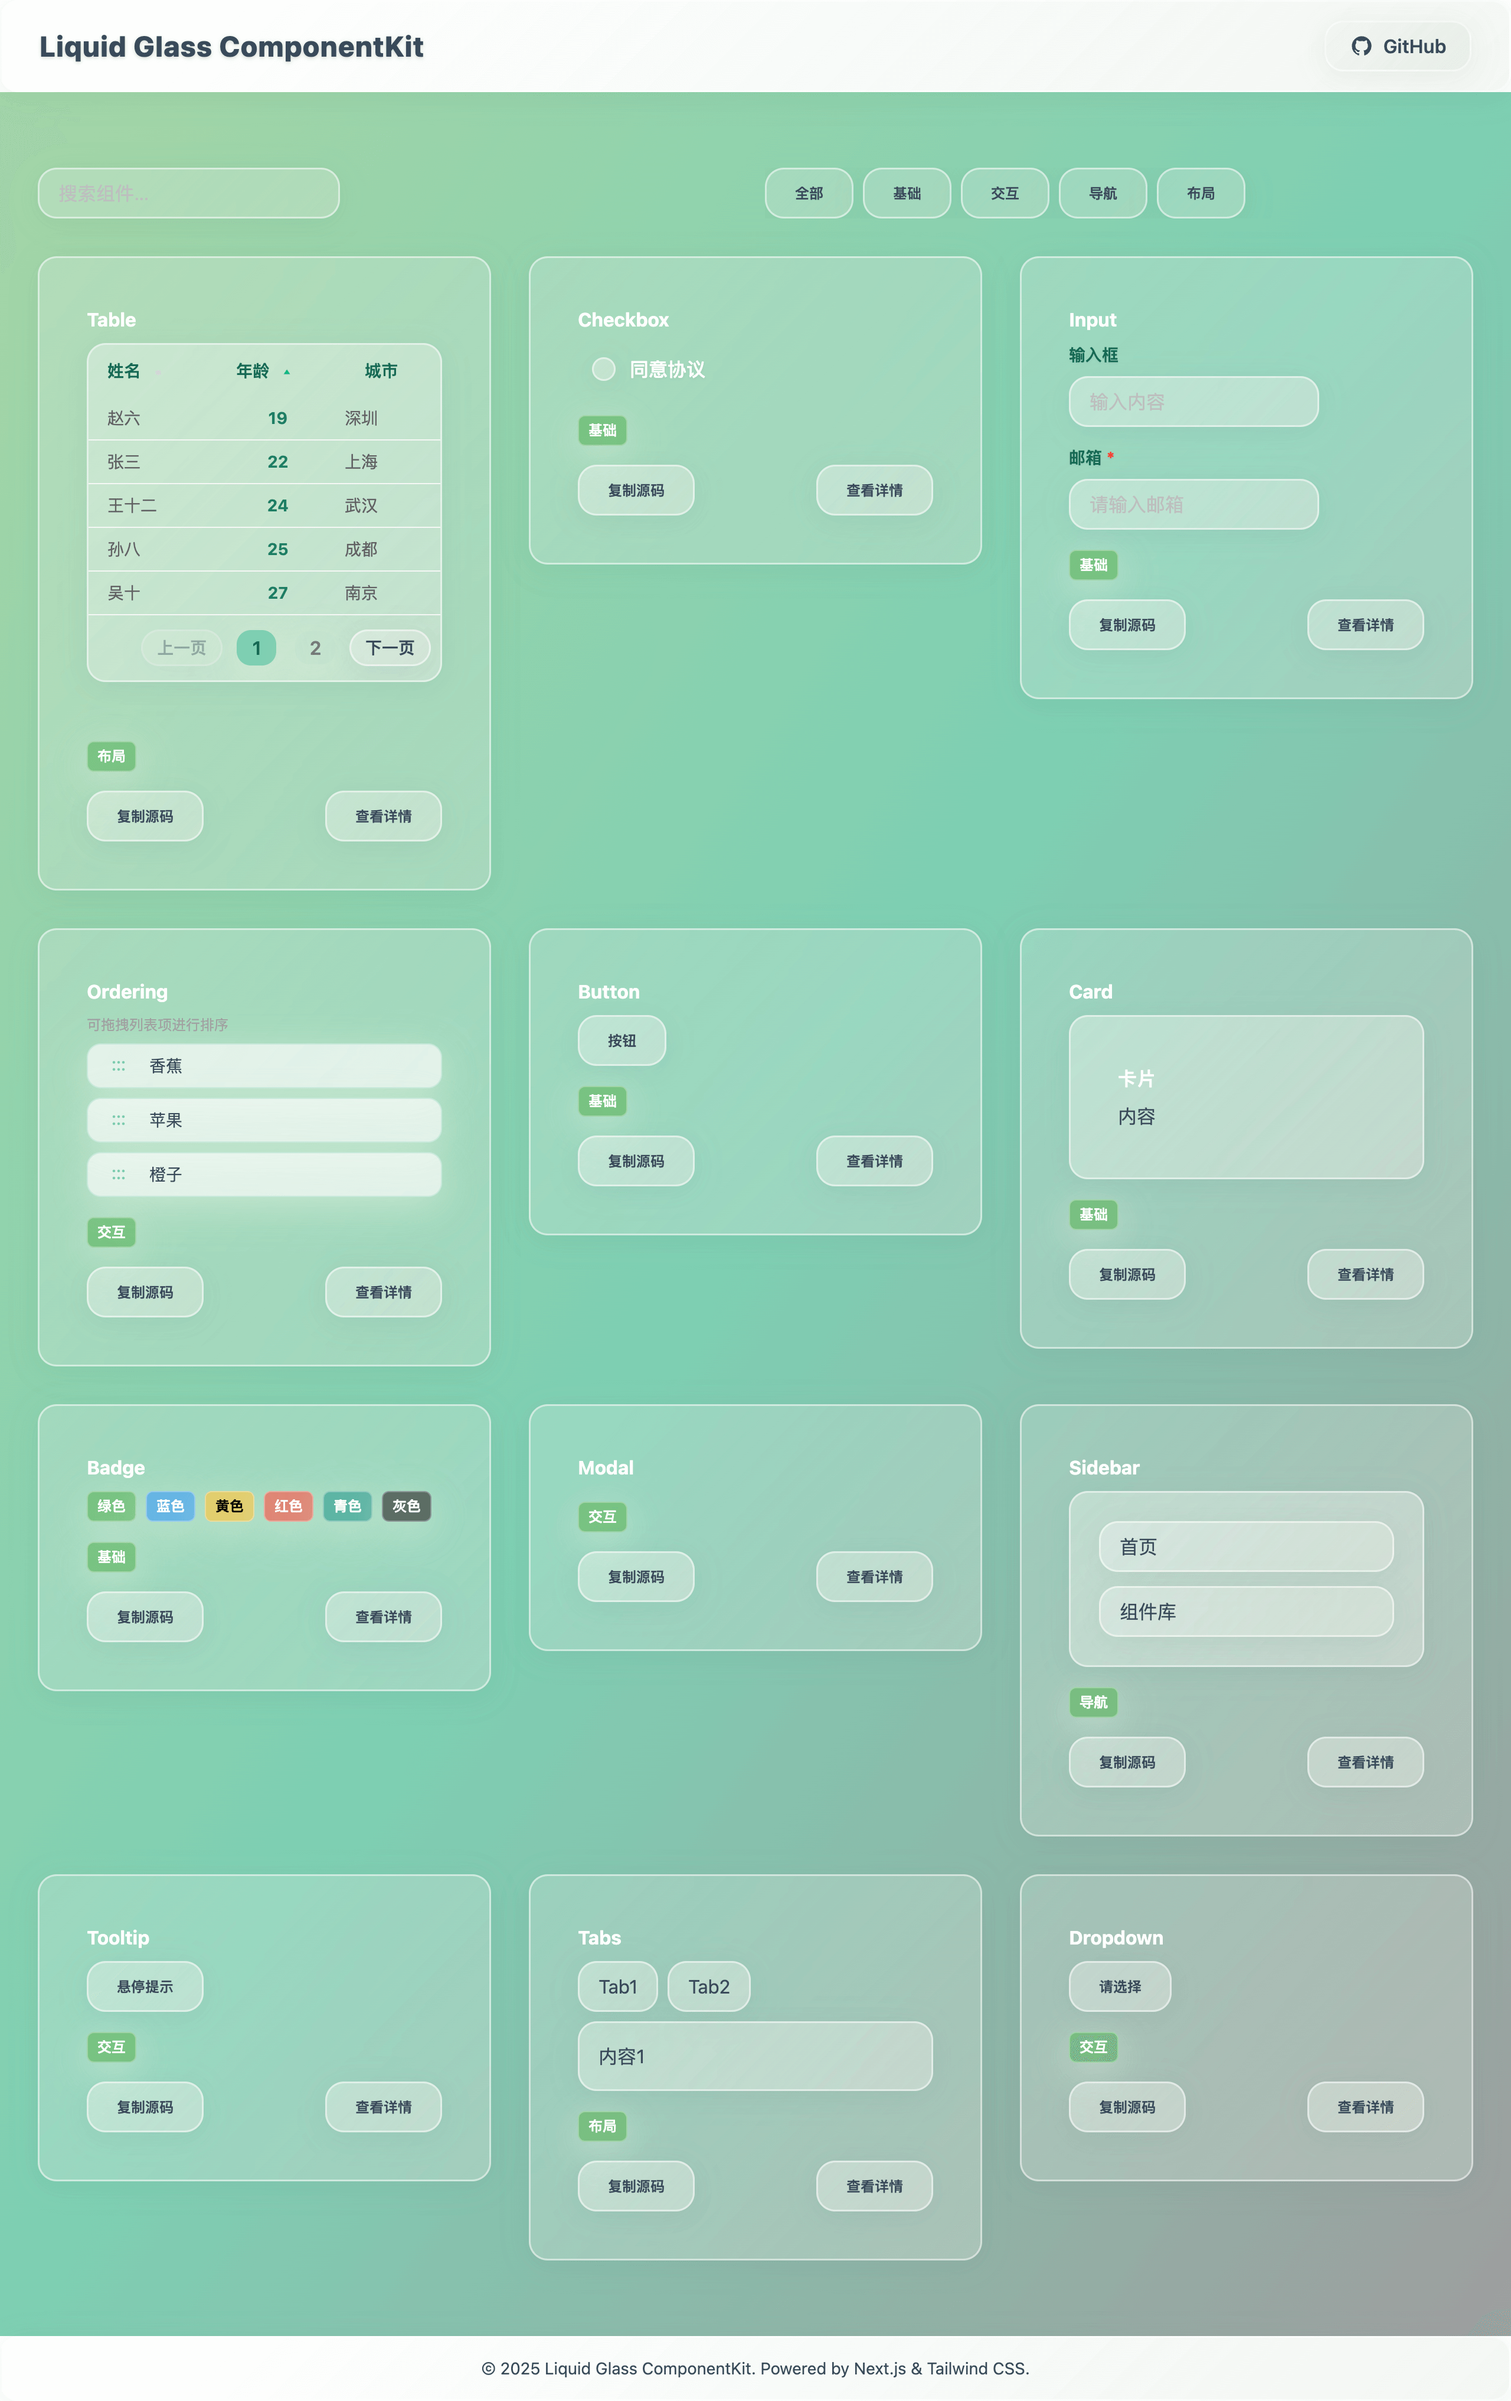
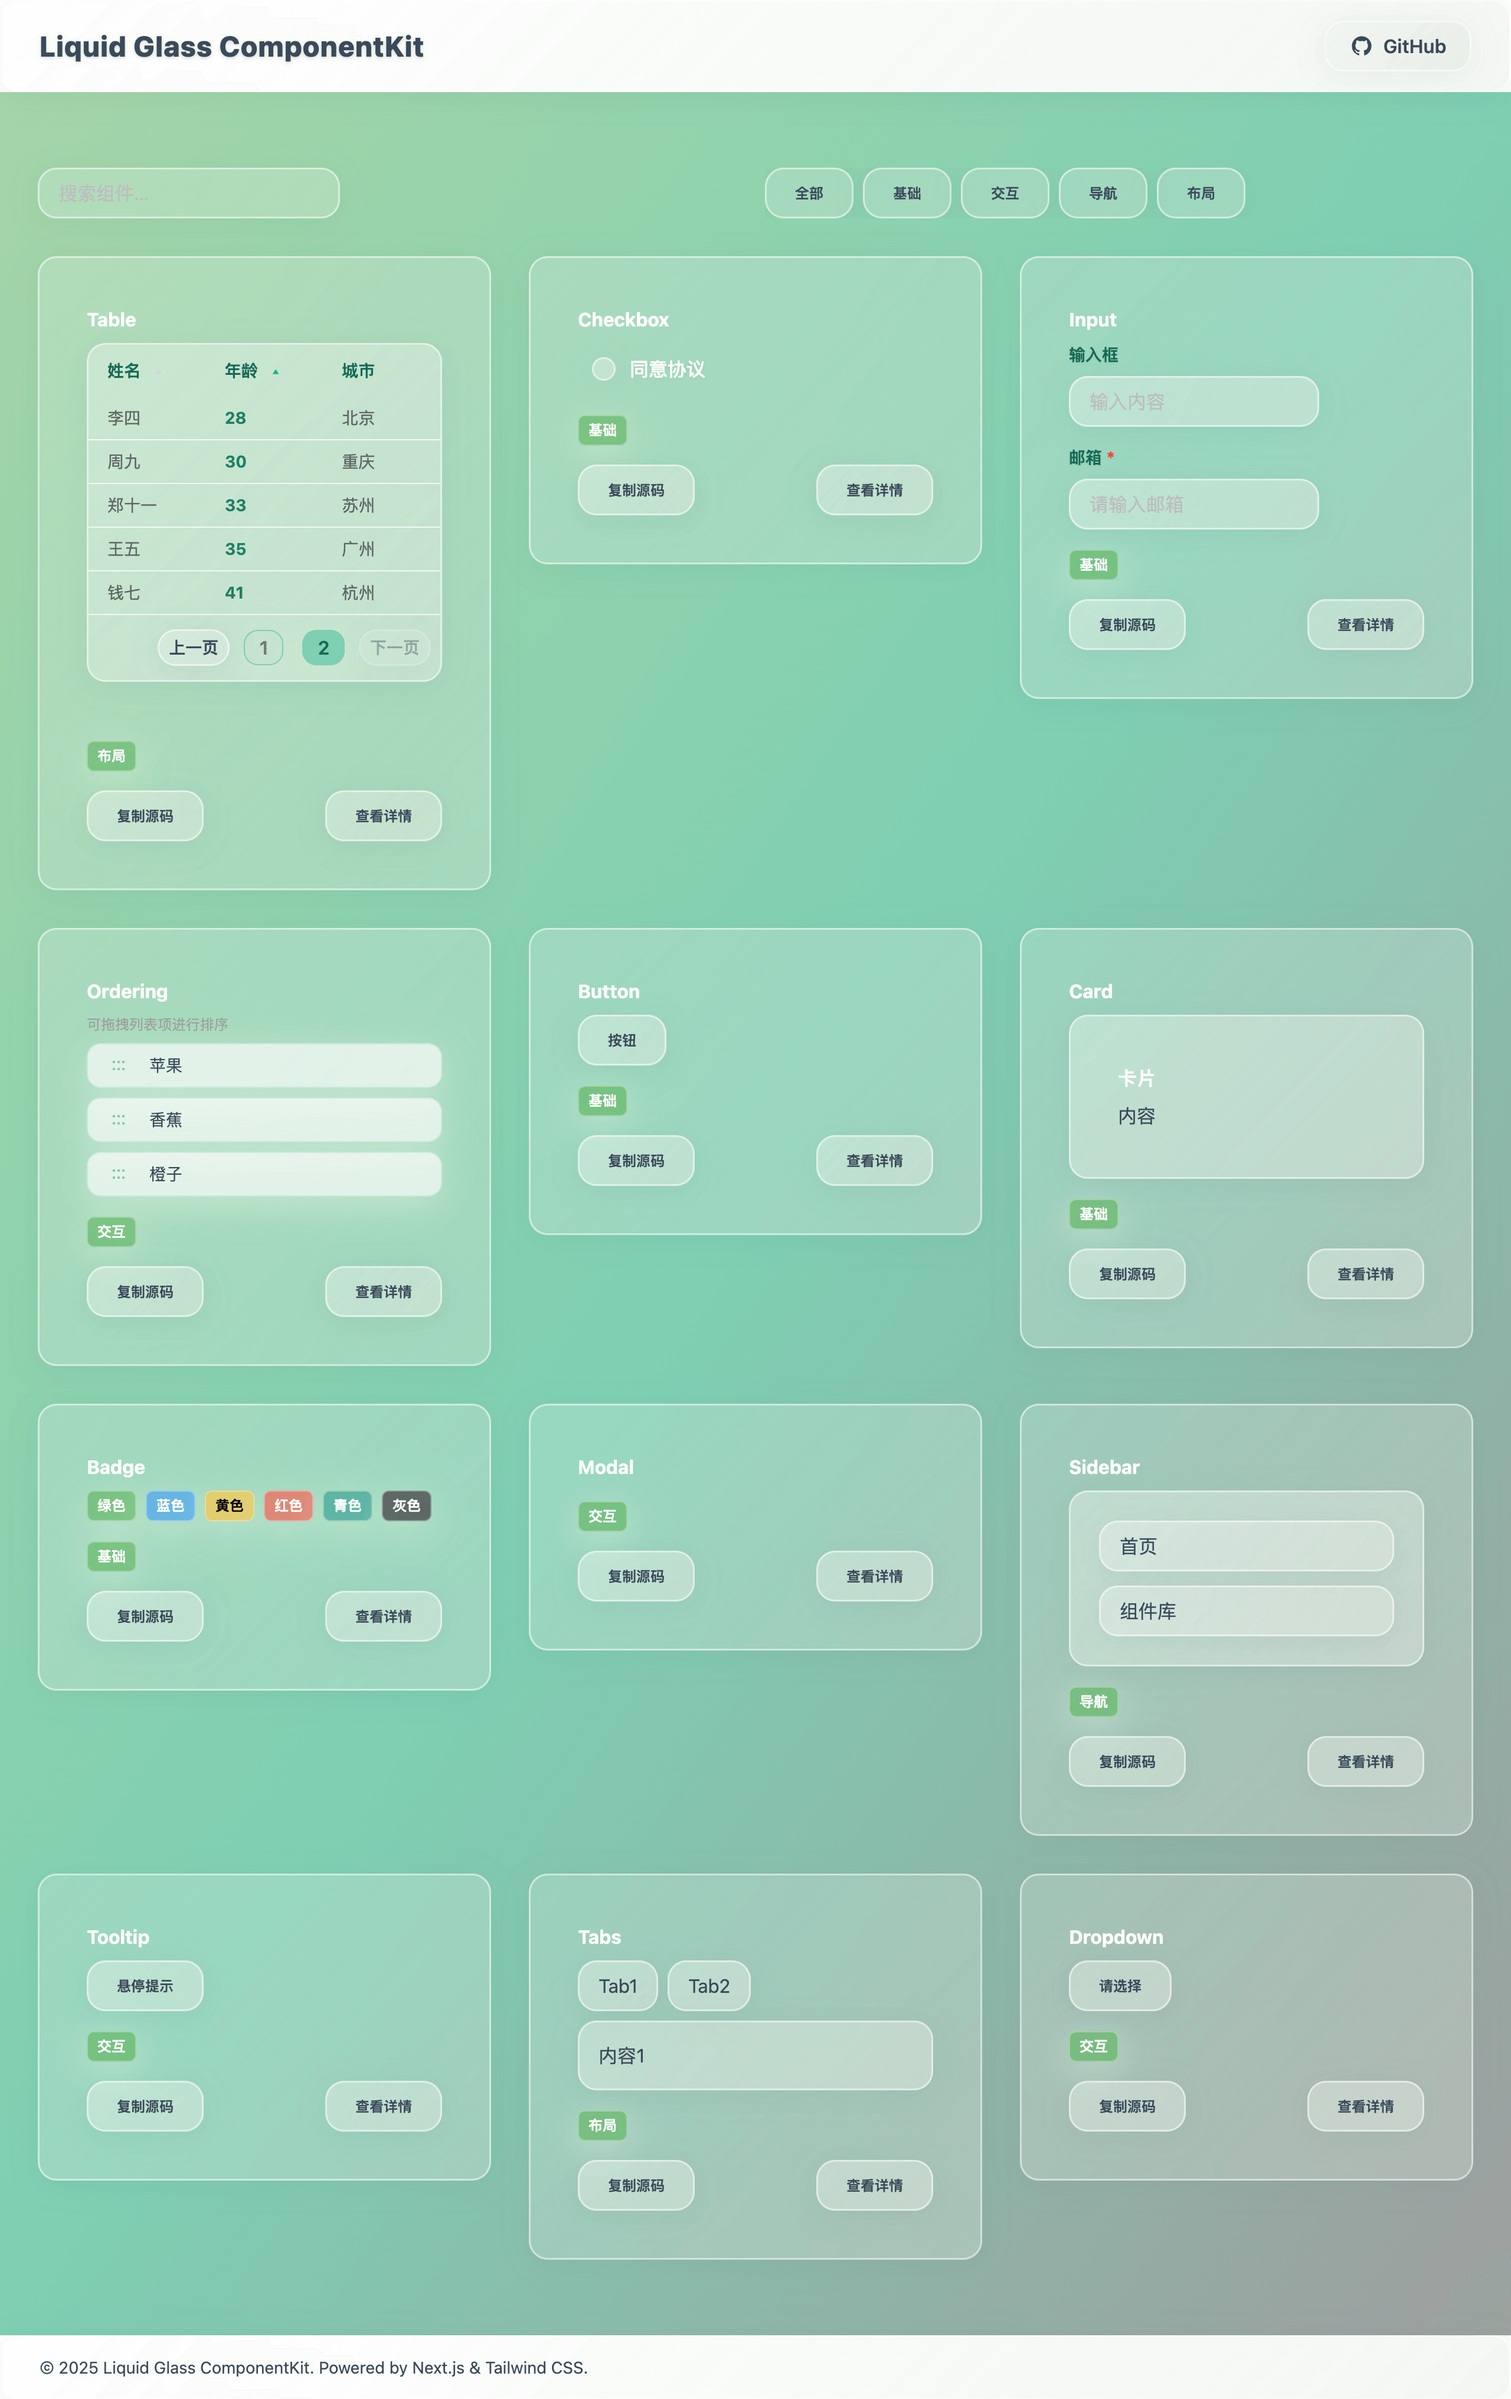
feat:update

diff --git a/components/Table.tsx b/components/Table.tsx
@@ -81,7 +81,7 @@ export const Table: React.FC<TableProps & { bodyHeight?: number | string }> = ({
         return (
             <div className="flex justify-end items-center gap-2 py-3 px-2 select-none">
                 <button
-                    className="liquid-glass px-3 py-1 rounded-xl text-sm text-emerald-700 font-semibold shadow-glass transition hover:scale-105 disabled:opacity-40"
+                    className="liquid-glass px-2 py-1 rounded-xl text-sm text-emerald-700 font-semibold shadow-glass transition hover:scale-105 disabled:opacity-40"
                     disabled={currentPage === 1}
                     onClick={() => onPageChange?.(currentPage - 1)}
                 >上一页</button>
@@ -92,7 +92,7 @@ export const Table: React.FC<TableProps & { bodyHeight?: number | string }> = ({
                             className={`px-3 py-1 rounded-xl mx-1 font-semibold shadow-glass transition text-base leading-tight
 																							${p === currentPage
                                     ? 'bg-emerald-300 text-emerald-700 border border-emerald-300 cursor-default pointer-events-none'
-                                    : 'text-gray-600 hover:bg-emerald-100/40 hover:text-emerald-700'}
+                                    : 'text-gray-600 border border-emerald-300 hover:bg-emerald-100/40 hover:text-emerald-700'}
 																						`}
                             style={{ minWidth: 28 }}
                             onClick={() => onPageChange?.(p)}
@@ -103,7 +103,7 @@ export const Table: React.FC<TableProps & { bodyHeight?: number | string }> = ({
                     )
                 )}
                 <button
-                    className="liquid-glass text-sm px-3 py-1 rounded-xl text-emerald-700 font-semibold shadow-glass transition hover:scale-105 disabled:opacity-40"
+                    className="liquid-glass text-sm px-2 py-1 rounded-xl text-emerald-700 font-semibold shadow-glass transition hover:scale-105 disabled:opacity-40"
                     disabled={currentPage === pageCount}
                     onClick={() => onPageChange?.(currentPage + 1)}
                 >下一页</button>
@@ -120,37 +120,6 @@ export const Table: React.FC<TableProps & { bodyHeight?: number | string }> = ({
             style={style}
         >
             <div className="w-full">
-                <table className="min-w-full text-sm text-gray-700">
-                    <thead className="sticky top-0 z-10 bg-transparent">
-                        <tr>
-                            {columns.map(col => (
-                                <th
-                                    key={col.key}
-                                    className="px-4 py-3 font-semibold text-emerald-700 bg-transparent select-none cursor-pointer"
-                                    style={{ textAlign: col.align || "left", width: col.width }}
-                                    onClick={col.sortable ? () => handleSort(col.key) : undefined}
-                                >
-                                    <span className="flex items-center gap-1">
-                                        {col.title}
-                                        {col.sortable && (
-                                            <span className="ml-1">
-                                                {sortKey === col.key ? (
-                                                    sortOrder === 'asc' ? (
-                                                        <svg width="14" height="14" viewBox="0 0 20 20" fill="none" className="inline align-middle"><path d="M10 6l4 6H6l4-6z" fill="#10b981"/></svg>
-                                                    ) : (
-                                                        <svg width="14" height="14" viewBox="0 0 20 20" fill="none" className="inline align-middle"><path d="M10 14l-4-6h8l-4 6z" fill="#10b981"/></svg>
-                                                    )
-                                                ) : (
-                                                    <svg width="14" height="14" viewBox="0 0 20 20" fill="none" className="inline align-middle"><path d="M10 6l4 6H6l4-6z" fill="#d1d5db"/><path d="M10 14l-4-6h8l-4 6z" fill="#d1d5db"/></svg>
-                                                )}
-                                            </span>
-                                        )}
-                                    </span>
-                                </th>
-                            ))}
-                        </tr>
-                    </thead>
-                </table>
                 <div
                     style={{
                         maxHeight: bodyHeight !== undefined ? bodyHeight : undefined,
@@ -159,7 +128,36 @@ export const Table: React.FC<TableProps & { bodyHeight?: number | string }> = ({
                         width: '100%'
                     }}
                 >
-                    <table className="min-w-full text-sm text-gray-700">
+                    <table className="min-w-full text-sm text-gray-700" style={{ tableLayout: 'fixed' }}>
+                        <thead className="sticky top-0 z-10 bg-transparent">
+                            <tr>
+                                {columns.map(col => (
+                                    <th
+                                        key={col.key}
+                                        className="px-4 py-3 font-semibold text-emerald-700 bg-transparent select-none cursor-pointer"
+                                        style={{ textAlign: col.align || "left", width: col.width || `${100 / columns.length}%` }}
+                                        onClick={col.sortable ? () => handleSort(col.key) : undefined}
+                                    >
+                                        <span className="flex items-center gap-1">
+                                            {col.title}
+                                            {col.sortable && (
+                                                <span className="ml-1">
+                                                    {sortKey === col.key ? (
+                                                        sortOrder === 'asc' ? (
+                                                            <svg width="14" height="14" viewBox="0 0 20 20" fill="none" className="inline align-middle"><path d="M10 6l4 6H6l4-6z" fill="#10b981"/></svg>
+                                                        ) : (
+                                                            <svg width="14" height="14" viewBox="0 0 20 20" fill="none" className="inline align-middle"><path d="M10 14l-4-6h8l-4 6z" fill="#10b981"/></svg>
+                                                        )
+                                                    ) : (
+                                                        <svg width="14" height="14" viewBox="0 0 20 20" fill="none" className="inline align-middle"><path d="M10 6l4 6H6l4-6z" fill="#d1d5db"/><path d="M10 14l-4-6h8l-4 6z" fill="#d1d5db"/></svg>
+                                                    )}
+                                                </span>
+                                            )}
+                                        </span>
+                                    </th>
+                                ))}
+                            </tr>
+                        </thead>
                         <tbody>
                             {pagedData.map((row, i) => (
                                 <motion.tr
@@ -170,10 +168,13 @@ export const Table: React.FC<TableProps & { bodyHeight?: number | string }> = ({
                                     {columns.map(col => (
                                         <motion.td
                                             key={col.key}
-                                            className="px-4 py-2 border-b border-gray-100"
-                                            style={{ textAlign: col.align || "left" }}
+                                            className={`px-4 py-2 border-b border-gray-100 ${col.align === 'center' ? 'text-center' : col.align === 'right' ? 'text-right' : 'text-left'}`}
+                                            style={{ width: col.width || `${100 / columns.length}%` }}
                                         >
-                                            {col.render ? col.render(row[col.key], row, i) : row[col.key]}
+                                            {/* 保证加粗内容不影响宽度 */}
+                                            <span className={col.align === 'center' ? 'inline-block w-full' : ''}>
+                                                {col.render ? col.render(row[col.key], row, i) : row[col.key]}
+                                            </span>
                                         </motion.td>
                                     ))}
                                 </motion.tr>

diff --git a/pages/index.tsx b/pages/index.tsx
@@ -80,7 +80,7 @@ export default function RootLayout() {
   const [tablePage, setTablePage] = useState(1);
   const tableColumns = [
     { key: 'name', title: '姓名', sortable: true },
-    { key: 'age', title: '年龄', align: 'center' as const, sortable: true, render: (v: any) => <span className="font-bold text-emerald-600">{v}</span> },
+    { key: 'age', title: '年龄', sortable: true, render: (v: any) => <span className="font-bold text-emerald-600">{v}</span> },
     { key: 'city', title: '城市' }
   ];
   const tableData = [
